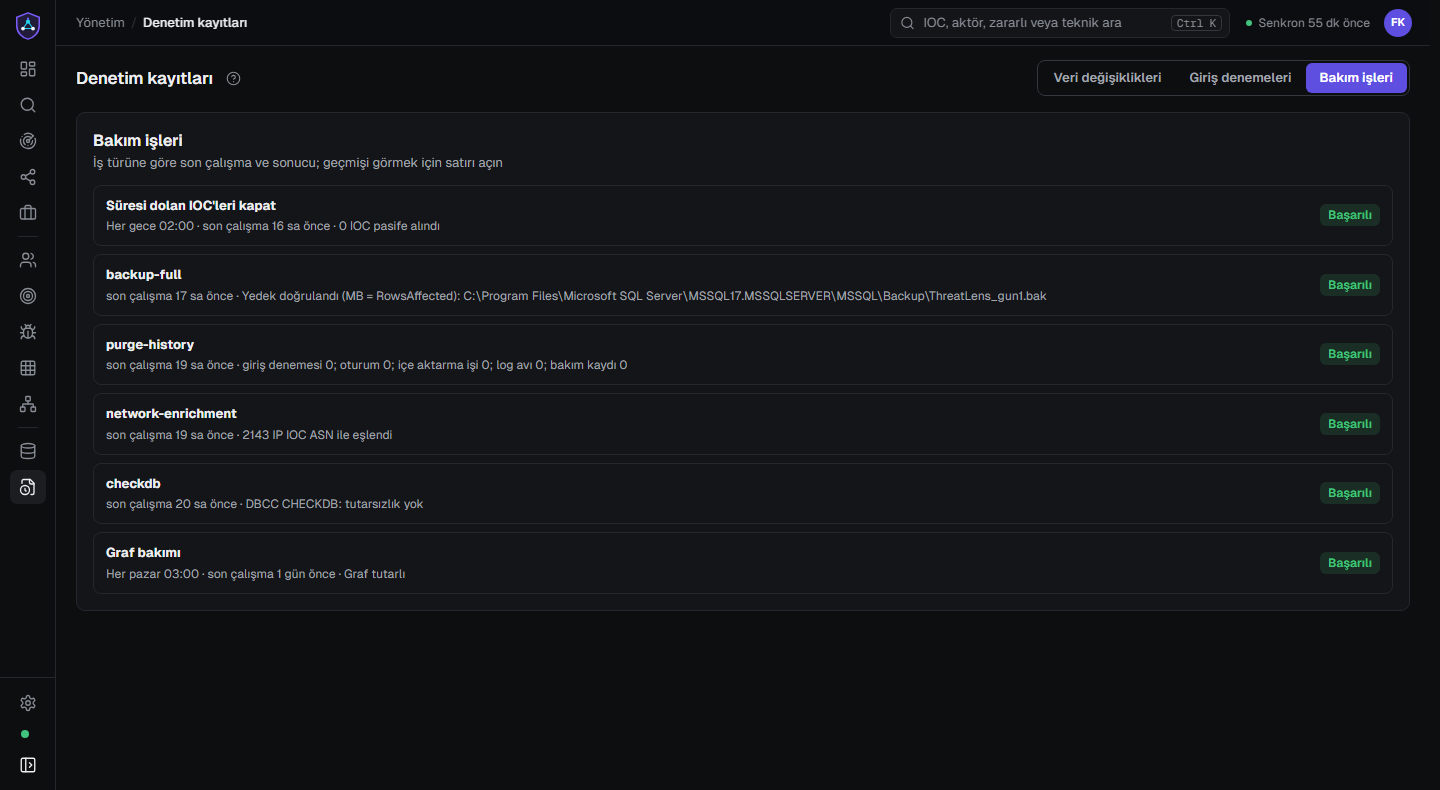
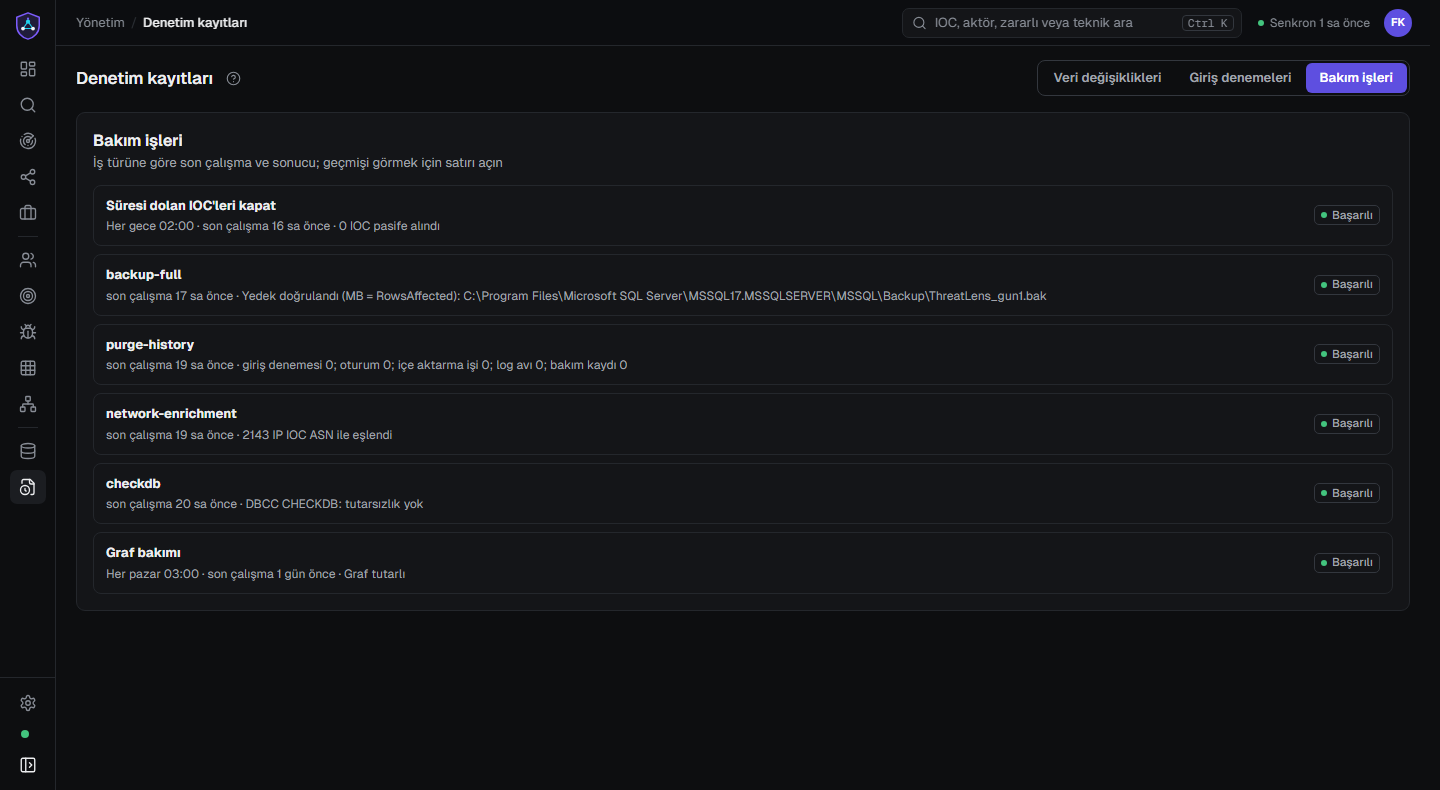
UI Konsol: aşama 4 (2/3) — tablo, rozet, KPI ve önizleme paneli
Tablolar sayfa zemininde (32 px yapışkan başlık, 36 px satır, seçili satırda 2 px vurgu); risk sayı + bant çubuğu, Aile → aktör, önem nokta + metin, çerçeveli etiketler; sayfalayıcı ve KPI yeni stil; IOC önizleme paneli: risk bileşenleri (fn_RiskBreakdown), dikey atıf zinciri, ayrıntılar, teknikler, yapışkan eylemler; ≥1280 bölünmüş, 768–1279 çekmece, <768 alt sayfa; ↑/↓ satır, Enter tam sayfa.

diff --git a/app/static/js/iocs.js b/app/static/js/iocs.js
@@ -6,16 +6,23 @@
   const split = document.getElementById('split'), tbl = document.getElementById('tbl'), form = document.getElementById('filters'), bar = document.getElementById('tblBar');
   let fb = null, sel = null;
 
+  const fam = (r) => {
+    if (!r.MalwareName) return TL.unknown('Zararlı ailesiyle ilişkilendirilmemiş');
+    if (/^Ailesi belirlenmemiş/.test(r.MalwareName)) return '<span class="faint">Ailesi belirlenmemiş</span>';
+    const t = r.ActorName ? `${r.MalwareName} → ${r.ActorName}` : r.MalwareName;
+    return `<span class="fam" title="${esc(t)}"><b>${esc(r.MalwareName)}</b>${r.ActorName ? `<span class="to" aria-hidden="true">→</span><span class="act">${esc(r.ActorName)}</span>` : ''}</span>`;
+  };
   const cols = [
     { id: 'value', label: 'Gösterge', sort: 'value', primary: true, render: (r) => TL.iocCell(r.Value) },
     { id: 'type', label: 'Tip', sort: 'type', render: (r) => typeBadge(r.TypeCode) },
     { id: 'severity', label: 'Önem', sort: 'severity', render: (r) => sev(r.SeverityCode) },
-    { id: 'confidence', label: 'Güven', sort: 'confidence', render: (r) => conf(r.Confidence) },
-    { id: 'malware', label: 'Zararlı ailesi', priority: 2, render: (r) => r.MalwareName ? `<span class="trunc">${esc(r.MalwareName)}</span>` : '<span class="faint">—</span>' },
-    { id: 'source', label: 'Kaynak', sort: 'source', priority: 2, render: (r) => sourceBadge(r.SourceName) },
-    { id: 'firstSeen', label: 'İlk görülme', sort: 'firstSeen', priority: 3, render: (r) => `<span class="muted nowrap" title="${fmtDT(r.FirstSeen)}">${ago(r.FirstSeen)}</span>` },
+    { id: 'risk', label: 'Risk', sort: 'risk', hint: 'Risk skoru (0–100); çubuk risk bandının renginde. Bileşenleri satıra tıklayınca açılan panelde.', render: (r) => TL.risk(r.RiskScore) },
+    { id: 'confidence', label: 'Güven', sort: 'confidence', hidden: true, render: (r) => conf(r.Confidence) },
+    { id: 'malware', label: 'Aile → aktör', priority: 2, hint: 'Zararlı ailesi ve onu kullanan tehdit aktörü; — : bir aileyle ilişkilendirilmemiş', render: fam },
+    { id: 'source', label: 'Kaynak', sort: 'source', priority: 3, render: (r) => sourceBadge(r.SourceName) },
+    { id: 'firstSeen', label: 'İlk görülme', sort: 'firstSeen', hidden: true, render: (r) => `<span class="muted nowrap" title="${fmtDT(r.FirstSeen)}">${ago(r.FirstSeen)}</span>` },
     { id: 'lastSeen', label: 'Son görülme', sort: 'lastSeen', render: (r) => `<span class="nowrap" title="${fmtDT(r.LastSeen)}">${ago(r.LastSeen)}</span>` },
-    { id: 'actions', label: 'İşlemler', cls: 'actions', render: (r) => `<a class="btn sm icon ghost" href="/iocs/${r.IndicatorID}" aria-label="Detay sayfası: ${esc(r.Value)}" title="Detay sayfası"><i data-lucide="external-link"></i></a>
+    { id: 'actions', label: 'İşlemler', cls: 'actions', priority: 2, render: (r) => `<a class="btn sm icon ghost" href="/iocs/${r.IndicatorID}" aria-label="Detay sayfası: ${esc(r.Value)}" title="Detay sayfası"><i data-lucide="external-link"></i></a>
         <a class="btn sm icon ghost" href="${TL.graphUrl('indicator', r.IndicatorID)}" aria-label="İlişki grafında aç: ${esc(r.Value)}" title="İlişki grafında aç"><i data-lucide="share-2"></i></a>` },
   ];
 
@@ -75,30 +82,63 @@
     finally { tbl.removeAttribute('aria-busy'); }
   }
 
-  async function show(id) {
+  const num = (n, d = 1) => Number(n).toLocaleString('tr-TR', { maximumFractionDigits: d });
+  const chainList = (i, attribution) => {
+    const seen = new Set(), rows = attribution.filter((a) => { const k = `${a.ViaType}${a.ViaID}${a.ActorID}`; if (seen.has(k)) return false; seen.add(k); return true; });
+    const step = (color, title, sub, href) => `<li><span class="dot" style="background:var(${color})" aria-hidden="true"></span><span>${href ? `<a href="${href}"><b>${esc(title)}</b></a>` : `<b>${esc(title)}</b>`}<small>${sub}</small></span></li>`;
+    const first = step('--n-ioc', 'Bu gösterge', `${esc(TL.TYPE_LABEL[i.TypeCode] || i.TypeCode)} · ${esc(TL.sourceShort(i.SourceName))}`);
+    if (!rows.length) return `<ol class="pk-chain" aria-label="Atıf zinciri">${first}<li><span class="dot" style="background:var(--line-strong)" aria-hidden="true"></span><span><b class="faint">Ailesi belirlenmemiş</b><small>Bir zararlı yazılım ya da kampanyayla ilişkilendirilmemiş</small></span></li></ol>`;
+    const via = new Map(); rows.forEach((a) => { const k = `${a.ViaType}:${a.ViaID}`; if (!via.has(k)) via.set(k, { ...a, actors: [] }); if (a.ActorID) via.get(k).actors.push(a); });
+    return [...via.values()].slice(0, 3).map((v) => `<ol class="pk-chain" aria-label="Atıf zinciri: ${esc(v.ViaName)}">${first}
+      ${step(v.ViaType === 'malware' ? '--n-malware' : '--n-campaign', v.ViaName, `${v.ViaType === 'malware' ? 'Zararlı yazılım' : 'Kampanya'} · kanıt: ${esc(v.EvidenceSource || 'kaynak belirtilmemiş')}`, TL.entityUrl(v.ViaType, v.ViaID))}
+      ${v.actors.length ? step('--n-actor', v.actors.map((x) => x.ActorName).join(', '), `Tehdit aktörü · ${esc(v.actors[0].ActorEvidenceSource || 'MITRE ATT&CK')}`, TL.entityUrl('actor', v.actors[0].ActorID))
+        : `<li><span class="dot" style="background:var(--line-strong)" aria-hidden="true"></span><span><b class="faint">Aktör bilinmiyor</b><small>Bu aileyi kullanan aktör kaydı yok</small></span></li>`}</ol>`).join('');
+  };
+  const riskBox = (i, r) => {
+    if (!r) return '';
+    const [, band] = TL.riskBand(r.Score), sevW = r.SeverityWeight, k = r.ReliabilityFactor * r.FreshnessFactor * r.StatusFactor, w = (x) => Math.max(0, (x * k)).toFixed(2);
+    return `<section aria-labelledby="pkRisk"><h3 id="pkRisk">Risk puanı</h3>
+      <div class="pk-score"><b>${r.Score}</b><span>/ 100 · ${esc(band)} bant</span></div>
+      <div class="pk-stack" role="img" aria-label="Bileşenler: güven ${num(r.ConfidencePart)}, önem ${num(r.SeverityPart)}, kurumda görülme ${num(r.SightingPart)}">
+        <i style="width:${w(r.ConfidencePart)}%;background:var(--accent)"></i><i style="width:${w(r.SeverityPart)}%;background:color-mix(in srgb, var(--accent) 50%, transparent)"></i><i style="width:${w(r.SightingPart)}%;background:var(--text-3)"></i></div>
+      <div class="pk-legend">
+        <i style="background:var(--accent)"></i><span>Güven ${i.Confidence} × 0,45</span><b>${num(r.ConfidencePart)}</b>
+        <i style="background:color-mix(in srgb, var(--accent) 50%, transparent)"></i><span>Önem ${esc(TL.SEV[i.SeverityCode] || i.SeverityCode)} ${sevW} × 0,35</span><b>${num(r.SeverityPart)}</b>
+        <i style="background:var(--text-3)"></i><span>Kurumda görülme ${fmtN(i.SightingCount || 0)} × 2 (en çok 20)</span><b>${num(r.SightingPart)}</b>
+        <span class="eq">× kaynak ${esc(i.Reliability)} ${num(r.ReliabilityFactor, 2)} · tazelik ${num(r.FreshnessFactor, 2)}${r.StatusFactor < 1 ? ` · durum ${num(r.StatusFactor, 2)}` : ''} = <b>${r.Score}</b><span class="tech"> · fn_RiskBreakdown</span></span>
+      </div></section>`;
+  };
+
+  async function show(id, _tr, opts = {}) {
     st.selected = id; qs.set({ id }); markRow(tbl, id);
-    panel(split, panelHead('IOC detayı') + loading());
+    if (!opts.keepFocus) panel(split, panelHead('IOC detayı') + loading());
     try {
       const [d, rel] = await Promise.all([api(`/api/iocs/${id}`), api(`/api/iocs/${id}/relationships`)]);
-      const i = d.indicator;
-      panel(split, `${panelHead('IOC detayı')}
-        <section><div class="entity-title">${TL.nodeIcon('indicator')}<div style="min-width:0"><h2 class="mono ioc-title">${esc(i.Value)}</h2>
-          <div class="chips" style="margin-top:6px">${typeBadge(i.TypeCode)}${sev(i.SeverityCode)}${status(i.Status)}</div></div></div>
-          ${TL.actions([`<a class="btn sm primary" href="${TL.graphUrl('indicator', i.IndicatorID)}"><i data-lucide="share-2"></i>İlişki grafı</a>`,
-            copyBtn(i.Value).replace('btn sm icon ghost copy', 'btn sm copy').replace('</i>', '</i>Kopyala')],
-            [TL.caseBtn('indicator', i.IndicatorID, i.Value, 'btn')])}</section>
-        <section><dl class="kv">
-          <dt>Güven skoru</dt><dd>${conf(i.Confidence)}</dd><dt>Risk skoru</dt><dd>${i.RiskScore} / 100</dd>
-          <dt>Kaynak</dt><dd>${sourceBadge(i.SourceName)} <span class="faint">(güvenilirlik ${esc(i.Reliability)})</span></dd>
-          <dt>İlk görülme</dt><dd>${fmtDT(i.FirstSeen)}</dd><dt>Son görülme</dt><dd>${fmtDT(i.LastSeen)}</dd>
-          <dt>Görülme</dt><dd>${i.SightingCount ? `${fmtN(i.SightingCount)} kez (kurum içi)` : '<span class="faint">Kurum içinde görülmedi</span>'}</dd><dt>TLP</dt><dd>${esc(i.TLPCode)}</dd>
+      if (String(st.selected) !== String(id)) return;              // bu arada başka satır seçildi
+      const i = d.indicator, tech = rel.malwareTechniques, techSeen = new Map();
+      tech.forEach((t) => { if (!techSeen.has(t.ExternalID)) techSeen.set(t.ExternalID, t); });
+      const techs = [...techSeen.values()];
+      panel(split, `<div class="panel-head"><span class="pk-kind"><i data-lucide="hash" aria-hidden="true"></i>IOC · ${esc(TL.TYPE_LABEL[i.TypeCode] || i.TypeCode)}</span>
+          <button type="button" class="btn icon ghost" data-close aria-label="Paneli kapat" title="Kapat (Esc)"><i data-lucide="x"></i></button></div>
+        <section aria-label="Gösterge"><h2 class="pk-val">${esc(i.Value)}</h2>
+          <div class="pk-tags">${sev(i.SeverityCode)}<span class="badge" title="Kaynak ve güvenilirlik derecesi">${esc(TL.sourceShort(i.SourceName))} · ${esc(i.Reliability)}</span><span class="badge">Güven ${i.Confidence}</span>${i.Status !== 'active' ? status(i.Status) : ''}</div></section>
+        ${riskBox(i, d.risk)}
+        <section aria-labelledby="pkChain"><h3 id="pkChain">Atıf zinciri</h3>${chainList(i, rel.attribution)}</section>
+        <section class="pk-more" aria-labelledby="pkKv"><h3 id="pkKv">Ayrıntılar</h3><dl class="kv">
+          <dt>Son görülme</dt><dd title="${fmtDT(i.LastSeen)}">${ago(i.LastSeen)}</dd><dt>İlk görülme</dt><dd>${fmtDT(i.FirstSeen)}</dd>
+          ${i.ExpiresAt ? `<dt>Geçerlilik sonu</dt><dd>${fmtDT(i.ExpiresAt)}</dd>` : ''}
+          <dt>Kurumda görülme</dt><dd>${i.SightingCount ? `${fmtN(i.SightingCount)} kez` : '<span class="faint">Görülmedi</span>'}</dd>
+          <dt>İlişkili kayıt</dt><dd>${fmtN(rel.attribution.length)} atıf · ${fmtN(d.related.length)} benzer gösterge</dd>
+          <dt>Durum</dt><dd>${status(i.Status)}</dd><dt>TLP</dt><dd>${esc(i.TLPCode)}</dd>
           ${i.Tags.length ? `<dt>Etiketler</dt><dd><div class="chips">${i.Tags.map((t) => `<a class="chip" href="/iocs?tag=${encodeURIComponent(t)}">${esc(t)}</a>`).join('')}</div></dd>` : ''}
         </dl></section>
-        <section><h3><i data-lucide="git-branch"></i>Atıf zinciri</h3>${TL.chains(i, rel.attribution)}</section>
-        <section><h3><i data-lucide="grid-3x3"></i>İlişkili ATT&amp;CK teknikleri</h3>
-          ${rel.malwareTechniques.length ? `<div class="chips">${rel.malwareTechniques.slice(0, 14).map((t) => `<span class="chip" title="${esc(t.ExternalID)} ${esc(t.Technique)} (${esc(t.Malware)})" aria-label="${esc(t.ExternalID)} ${esc(t.Technique)}"><span class="mono">${esc(t.ExternalID)}</span></span>`).join('')}</div>
-            <p class="faint" style="font-size:12px">${rel.malwareTechniques.length} teknik<span class="tech"> · IOC → zararlı → teknik MATCH deseni</span></p>` : '<p class="faint" style="font-size:13px">Teknik ilişkisi yok.</p>'}</section>
-        <div class="panel-foot"><a class="btn" href="/iocs/${i.IndicatorID}"><i data-lucide="maximize-2"></i>Tam sayfada aç</a></div>`);
+        <section class="pk-more" aria-labelledby="pkTech"><h3 id="pkTech">Teknikler${techs.length ? ` (${techs.length})` : ''}</h3>
+          ${techs.length ? `<div class="pk-tech">${techs.slice(0, 5).map((t) => `<a class="chip" href="/attack?id=${t.TechniqueID || ''}" title="${esc(t.ExternalID)} ${esc(t.Technique)} (${esc(t.Malware)} üzerinden)"><span class="mono">${esc(t.ExternalID)}</span>${esc(TL.midTruncate(t.Technique, 16, 0))}</a>`).join('')}${techs.length > 5 ? `<a class="chip" href="/iocs/${i.IndicatorID}">+${techs.length - 5}</a>` : ''}</div>`
+            : '<p class="faint" style="font-size:13px">Teknik ilişkisi yok.</p>'}</section>
+        <div class="panel-foot"><a class="btn" href="${TL.graphUrl('indicator', i.IndicatorID)}"><i data-lucide="share-2"></i>Grafta aç</a>
+          ${can('analyst') ? `<button type="button" class="btn" data-add-case><i data-lucide="briefcase"></i>Vakaya ekle</button>` : ''}
+          <a class="btn icon" href="/iocs/${i.IndicatorID}" aria-label="Kayda git: tam sayfa" title="Kayda git"><i data-lucide="arrow-up-right"></i></a></div>`);
+      split.querySelector('[data-add-case]')?.addEventListener('click', () => TL.addToCase('indicator', [i.IndicatorID], i.Value));
     } catch (e) { const p = panel(split, panelHead('IOC detayı') + '<div class="panel-err"></div>'); TL.failed(p.querySelector('.panel-err'), e, () => show(id)); }
   }
 
@@ -111,7 +151,7 @@
     Object.entries(filters()).forEach(([k, v]) => { if (v !== undefined && v !== null && v !== '') q.set(k, v); });
     location.href = `/api/iocs/export?${q}`;
   });
-  bindTable(tbl, { onRow: show, onSort: (s) => { st.dir = st.sort === s && st.dir === 'desc' ? 'asc' : 'desc'; st.sort = s; st.page = 1; TL.onSortSync?.(); load(); } });
+  bindTable(tbl, { onRow: show, href: (id) => `/iocs/${id}`, onSort: (s) => { st.dir = st.sort === s && st.dir === 'desc' ? 'asc' : 'desc'; st.sort = s; st.page = 1; TL.onSortSync?.(); load(); } });
 
   // ---------- toplu kontrol ----------
   document.getElementById('lookupBtn').addEventListener('click', () => {

diff --git a/app/static/css/app.css b/app/static/css/app.css
@@ -1196,3 +1196,138 @@ textarea.drop-text.over { border-color: var(--purple); background: var(--purple-
 
 /* Metin içindeki bağlantı yalnızca renkle ayrılmasın (WCAG 1.4.1) */
 nav[aria-label="Sayfa yolu"] a { text-decoration: underline; text-underline-offset: 2px; }
+
+/* ================= Konsol aşama 4: tablo, rozet, sayfalayıcı, KPI ve detay paneli =================
+   Önceki kuralların üzerine yazar (aynı özgüllük, sonra gelir). */
+
+/* ---------- tablo: kart içinde değil, sayfa zemininde; başlık 32 px yapışkan, satır 36 px, yalnızca alt çizgi ---------- */
+.split > .card.flush { background: transparent; border: 0; border-radius: 0; }
+.split > .card.flush > .table-bar { padding-left: 0; padding-right: 0; }
+.split > .card.flush .table-wrap { border-top: 1px solid var(--line); }
+table.data { font-size: 13px; }
+.data th { height: 32px; font-size: 12px; font-weight: 500; color: var(--text-3); background: var(--bg); }
+.card .data th { background: var(--card); }
+.data th[aria-sort] { color: var(--text-2); }
+.data th[aria-sort="ascending"] button::after, .data th[aria-sort="descending"] button::after { color: var(--text-2); }
+.data th button:focus-visible, .data tbody tr:focus-visible { outline-color: var(--accent); }
+/* yapışkan başlık: yatay kaydırma gerekmiyorsa tablo kendi kaydırma alanı olmaz, başlık sayfayla birlikte üstte kalır */
+.scroll-host:not(.scroll-x) > .table-scroll { overflow: visible; }
+.data thead th { position: sticky; top: var(--topbar-h); z-index: 3; }
+.data tbody tr:hover { background: var(--row-hover); }
+.data tbody tr[aria-selected="true"] { background: var(--row-selected); }
+.data tbody tr[aria-selected="true"] > td:first-child { box-shadow: inset 2px 0 0 var(--accent); }
+.data td a:not(.btn):hover { color: var(--link); }
+.data .sel input, .check input[type=checkbox] { accent-color: var(--accent-strong); }
+.cell-ioc .value, .data .mono { font-size: 12.5px; }
+/* detay paneli açıkken öncelik-3 sütunları gizlenir (ör. IOC'de Kaynak) */
+.split:not(.no-panel) .data [data-priority="3"]:not([data-force]) { display: none; }
+
+/* ---------- hücre biçimleri ---------- */
+/* risk: sayı ve 44 px ince çubuk; çubuk bant rengi (Kritik, Yüksek, Orta, Düşük) */
+.risk { display: inline-flex; align-items: center; gap: 8px; font-variant-numeric: tabular-nums; }
+.risk > b { min-width: 2.4ch; text-align: right; font-weight: 500; }
+.risk .bar { position: relative; width: 44px; height: 3px; border-radius: 2px; background: var(--line); overflow: hidden; }
+.risk .bar > i { position: absolute; inset: 0 auto 0 0; border-radius: inherit; }
+.band-critical { background: var(--critical); } .band-high { background: var(--high); } .band-medium { background: var(--medium); } .band-low { background: var(--low); }
+/* aile → aktör */
+.fam { display: inline-flex; align-items: center; gap: 6px; min-width: 0; max-width: 100%; }
+.fam b { font-weight: 600; overflow: hidden; text-overflow: ellipsis; }
+.fam .to { color: var(--text-3); }
+.fam .act { color: var(--text-2); overflow: hidden; text-overflow: ellipsis; }
+
+/* ---------- rozet ve etiket: tek bileşen; 11,5 px, 1 px --line-strong çerçeve, 5 px köşe. Önem için nokta ve metin ---------- */
+.badge { height: 20px; padding: 0 6px; gap: 5px; border: 1px solid var(--line-strong); border-radius: 5px; background: transparent; color: var(--text-2);
+  font-size: 11.5px; font-weight: 500; }
+.b-purple, .b-cyan, .b-muted, .b-demo { background: transparent; color: var(--text-2); }
+.badge .dot { width: 7px; height: 7px; border-radius: 2px; }
+.badge.sev-critical, .badge.sev-high, .badge.sev-medium, .badge.sev-low, .badge.sev-info { height: auto; padding: 0; border: 0; background: none; color: var(--text); font-size: 13px; }
+.badge.sev-critical .dot { background: var(--critical); } .badge.sev-high .dot { background: var(--high); }
+.badge.sev-medium .dot { background: var(--medium); } .badge.sev-low .dot { background: var(--low); } .badge.sev-info .dot { background: var(--text-3); }
+/* iş ve kayıt durumu: çerçeveli etiket, anlam ikon/nokta renginde (yalnızca renkle değil, metinle de) */
+.b-ok, .b-warn, .b-bad { background: transparent; color: var(--text-2); }
+.b-ok svg { color: var(--low); } .b-warn svg { color: var(--medium); } .b-bad svg { color: var(--critical); }
+.b-ok::before, .b-warn::before, .b-bad::before { content: ""; width: 6px; height: 6px; border-radius: 50%; flex-shrink: 0; }
+.b-ok:has(svg)::before, .b-warn:has(svg)::before, .b-bad:has(svg)::before { display: none; }
+.b-ok::before { background: var(--low); } .b-warn::before { background: var(--medium); } .b-bad::before { background: var(--critical); }
+.chip { height: 24px; padding: 0 8px; border-radius: 5px; background: transparent; border-color: var(--line-strong); font-size: 12px; }
+.chip.on, .chip[aria-pressed="true"] { background: var(--accent-soft); border-color: transparent; color: var(--accent-text); }
+
+/* ---------- sayfalayıcı: 40 px alt satır ---------- */
+.pager { min-height: 40px; padding: 6px 0; font-size: 12.5px; color: var(--text-3); font-variant-numeric: tabular-nums; }
+.card .pager { padding: 6px 16px; }
+.pager nav { gap: 2px; }
+.pager button { min-width: 28px; height: 28px; border-color: transparent; background: transparent; color: var(--text-2); border-radius: 6px; }
+.pager button:hover:not([disabled]) { background: var(--row-hover); color: var(--text); }
+.pager button[aria-current="page"] { background: var(--elev); border-color: var(--line-strong); color: var(--text); }
+
+/* ---------- KPI kartı: sayı (22 px), etiket, tek satır bağlam; ikon 16 px ve soluk ---------- */
+.kpi { position: relative; grid-template-columns: minmax(0, 1fr); gap: 0; align-items: start; padding: 14px 16px; }
+.kpi .ic, .kpi .ic.c, .kpi .ic.r, .kpi .ic.a { position: absolute; top: 14px; right: 14px; width: auto; height: auto; border-radius: 0; background: none; color: var(--text-3); }
+.kpi .ic svg { width: 16px; height: 16px; }
+.kpi .val { font-size: 22px; font-weight: 600; letter-spacing: -.01em; line-height: 1.25; }
+.kpi .lbl { margin-top: 2px; color: var(--text-2); font-size: 13px; padding-right: 22px; }
+.kpi .sub { margin-top: 2px; color: var(--text-3); font-size: 12px; }
+@media (max-width: 560px) { .kpi .sub { display: block; -webkit-line-clamp: unset; overflow: visible; } }
+.kpi.mix .lbl { margin-top: 0; }
+
+/* ---------- boş durum: kendi kartının içinde, ikon + bir cümle + eylem ---------- */
+.empty { padding: 28px 16px; gap: 6px; }
+.empty svg { width: 22px; height: 22px; }
+
+/* ---------- detay paneli (önizleme) ----------
+   ≥1280: 384 px sağ bölünmüş görünüm (tablo daralır); 768–1279: tablonun üzerine binen çekmece; <768: alttan açılan sayfa. */
+:root { --panel-w: 384px; }
+@media (min-width: 1600px) { :root { --panel-w: 400px; } }
+.split:not(.no-panel) { gap: 0 16px; }
+.panel { background: var(--card); padding: 0; border: 0; border-left: 1px solid var(--line); border-radius: 0; }
+@media (min-width: 1280px) {
+  .split > .panel { position: sticky; top: var(--topbar-h); height: calc(100vh - var(--topbar-h)); max-height: none; margin: -14px -20px -24px 0;
+    animation: tl-peek var(--t-panel) ease-out; }
+}
+@keyframes tl-peek { from { opacity: 0; transform: translateX(8px); } }
+.panel .panel-head { position: sticky; top: 0; z-index: 2; margin: 0; padding: 12px 16px 10px; background: var(--card); }
+.panel .panel-head h2 { font-size: 13px; font-weight: 500; color: var(--text-2); }
+.panel section { padding: 14px 18px; border-top: 1px solid var(--line); }
+.panel section:first-of-type { padding-top: 4px; }
+.panel h3 { font-size: 12px; font-weight: 500; color: var(--text-3); }
+.panel h3 svg { width: 14px; height: 14px; }
+.panel-foot { position: sticky; bottom: 0; z-index: 2; display: flex; gap: 6px; padding: 10px 16px; background: var(--card); border-top: 1px solid var(--line); }
+.panel-foot .btn { width: auto; flex: 1; }
+.panel-foot .btn.icon { flex: 0 0 auto; }
+@media (max-width: 1279px) {
+  .panel { top: var(--topbar-h); width: min(var(--panel-w), 100vw); border-left: 1px solid var(--line-strong); box-shadow: var(--shadow-pop); animation: tl-peek var(--t-panel) ease-out; }
+}
+@media (max-width: 1023px) and (min-width: 768px) {
+  .panel { position: fixed; top: var(--topbar-h); right: 0; bottom: 0; max-height: none; z-index: 28; padding: 0; }
+  html.panel-full { overflow: auto; }
+}
+@media (max-width: 767px) {
+  .panel { top: auto; left: 0; right: 0; bottom: 0; width: 100vw; height: auto; max-height: 85vh; border-left: 0; border-top: 1px solid var(--line-strong);
+    border-radius: 14px 14px 0 0; padding: 0; box-shadow: 0 -20px 50px var(--shadow); animation: tl-sheet var(--t-panel) ease-out; }
+  .panel::before { content: ""; display: block; width: 36px; height: 4px; margin: 8px auto 0; border-radius: 2px; background: var(--line-strong); }
+  .panel .pk-more { display: none; }
+}
+@keyframes tl-sheet { from { transform: translateY(24px); opacity: 0; } }
+
+/* IOC önizleme bölümleri */
+.pk-kind { display: inline-flex; align-items: center; gap: 6px; color: var(--text-2); font-size: 12px; }
+.pk-kind svg { width: 14px; height: 14px; color: var(--n-ioc); }
+.pk-val { font: 500 13px/1.45 var(--mono); color: var(--text); overflow-wrap: anywhere; word-break: break-all; }
+.pk-tags { display: flex; flex-wrap: wrap; gap: 6px; }
+.pk-score { display: flex; align-items: baseline; gap: 8px; }
+.pk-score b { font-size: 22px; font-weight: 600; font-variant-numeric: tabular-nums; }
+.pk-score span { color: var(--text-2); font-size: 13px; }
+.pk-stack { display: flex; height: 6px; gap: 2px; border-radius: 3px; overflow: hidden; background: var(--line); }
+.pk-stack i { display: block; height: 100%; }
+.pk-legend { display: grid; grid-template-columns: 8px minmax(0, 1fr) auto; gap: 5px 8px; align-items: center; font-size: 12px; color: var(--text-2); }
+.pk-legend i { width: 8px; height: 8px; border-radius: 2px; }
+.pk-legend b { font-weight: 500; color: var(--text); font-variant-numeric: tabular-nums; text-align: right; }
+.pk-legend .eq { grid-column: 2 / -1; padding-top: 4px; border-top: 1px dashed var(--line); color: var(--text-3); }
+.pk-chain { list-style: none; margin: 0; padding: 0; display: grid; gap: 0; }
+.pk-chain li { position: relative; display: grid; grid-template-columns: 10px minmax(0, 1fr); gap: 10px; padding: 0 0 12px; }
+.pk-chain li:not(:last-child)::after { content: ""; position: absolute; left: 4px; top: 14px; bottom: 0; width: 2px; background: var(--line); }
+.pk-chain .dot { width: 10px; height: 10px; margin-top: 4px; border-radius: 50%; }
+.pk-chain b { display: block; font-weight: 500; overflow-wrap: anywhere; }
+.pk-chain small { display: block; color: var(--text-3); font-size: 12px; }
+.pk-tech { display: flex; flex-wrap: wrap; gap: 6px; }
+.pk-tech .chip .mono { color: var(--text-2); }

diff --git a/app/static/js/core.js b/app/static/js/core.js
@@ -43,7 +43,13 @@
   const STATUS = { active: ['Aktif', 'b-ok'], expired: ['Süresi doldu', 'b-muted'], revoked: ['İptal edildi', 'b-muted'], false_positive: ['Yanlış pozitif', 'b-warn'] };
 
   const sev = (code) => code ? `<span class="badge sev-${esc(code)}"><span class="dot"></span>${esc(SEV[code] || code)}</span>` : '<span class="faint">—</span>';
-  const typeBadge = (code) => `<span class="badge b-purple">${esc(TYPE_LABEL[code] || code)}</span>`;
+  const typeBadge = (code) => `<span class="badge">${esc(TYPE_LABEL[code] || code)}</span>`;
+  /** Risk bandı: Ayarlar > Risk eşikleri (RiskBand tablosu; meta yüklenince güncellenir) */
+  let BANDS = [['critical', 'Kritik', 85], ['high', 'Yüksek', 70], ['medium', 'Orta', 40], ['low', 'Düşük', 0]];
+  const riskBand = (n) => BANDS.find((b) => n >= b[2]) || BANDS[BANDS.length - 1];
+  /** Risk hücresi: sayı ve 44 px çubuk; çubuk bant renginde, bant adı ipucunda */
+  const risk = (n) => { if (n == null) return '<span class="faint">—</span>'; const [c, l] = riskBand(n);
+    return `<span class="risk" title="Risk ${n} / 100 · ${l} bant"><b>${n}</b><span class="bar" aria-hidden="true"><i class="band-${c}" style="width:${n}%"></i></span></span>`; };
   const status = (s) => { const [l, c] = STATUS[s] || [s, 'b-muted']; return `<span class="badge ${c}">${esc(l)}</span>`; };
   const job = (s) => { const [l, c, i] = JOB[s] || [s, 'b-muted', 'circle']; return `<span class="badge ${c}"><i data-lucide="${i}" style="width:13px;height:13px"></i>${esc(l)}</span>`; };
   const conf = (n) => n == null ? '<span class="faint">—</span>' :
@@ -115,7 +121,10 @@
   }
 
   let metaCache;
-  const meta = async () => (metaCache ||= await api('/api/meta'));   // sözlük tabloları (bir kez alınır)
+  const meta = async () => {                                         // sözlük tabloları (bir kez alınır)
+    if (!metaCache) { metaCache = await api('/api/meta'); TL.setBands?.(metaCache.riskBands); }
+    return metaCache;
+  };
 
   // ---------- yerel tercihler (yalnızca bu tarayıcı) ----------
   const pref = {
@@ -199,13 +208,13 @@
 
   // ---------- tablo ----------
   const colId = (c, i) => c.id || c.sort || c.key || `c${i}`;
-  /** Tablo: columns = [{key, label, hint, render(row), num, sort, primary, cls, priority 1|2|3, id, hideIfAllZero(row)}]
+  /** Tablo: columns = [{key, label, hint, hidden (varsayılan gizli), render(row), num, sort, primary, cls, priority 1|2|3, id, hideIfAllZero(row)}]
       opts: rowId, selected, sort, dir, caption, cards, key (sütun tercihlerinin anahtarı), select {label(row)} */
   function table(columns, rows, { rowId, selected, sort, dir, caption, cards = true, key, select, selectedIds } = {}) {
     if (!rows.length) return '';
     const prefs = key ? pref.get(`tl-cols:${key}`, {}) : {};
     const cols = columns.map((c, i) => ({ ...c, _id: colId(c, i), _prio: c.primary ? 1 : (c.priority || 1) }))
-      .filter((c) => c.primary || prefs[c._id] !== 0)
+      .filter((c) => c.primary || (c.hidden ? prefs[c._id] === 1 : prefs[c._id] !== 0))
       .filter((c) => !c.hideIfAllZero || prefs[c._id] === 1 || rows.some((r) => c.hideIfAllZero(r)));
     const attrs = (c) => `data-col="${esc(c._id)}" data-priority="${c._prio}"${prefs[c._id] === 1 ? ' data-force' : ''}`;
     const th = (select ? `<th scope="col" class="sel"><input type="checkbox" data-select-all aria-label="Bu sayfadaki tüm satırları seç"></th>` : '') + cols.map((c) => {
@@ -224,15 +233,24 @@
   }
 
   /** Tablo olaylarını bağlar: satır tıklama/Enter, sıralama başlıkları, kopyalama */
-  function bindTable(el, { onRow, onSort } = {}) {
+  function bindTable(el, { onRow, onSort, href } = {}) {
     el.addEventListener('click', (e) => {
       const s = e.target.closest('[data-sort]'); if (s && onSort) { onSort(s.dataset.sort); return; }
       if (e.target.closest('a, button, input, label, summary')) return;
       const tr = e.target.closest('tr[data-id]'); if (tr && onRow) onRow(tr.dataset.id, tr);
     });
     el.addEventListener('keydown', (e) => {
-      if (e.key !== 'Enter' || e.target.closest('a, button, input')) return;
-      const tr = e.target.closest('tr[data-id]'); if (tr && onRow) onRow(tr.dataset.id, tr);
+      const tr = e.target.closest('tr[data-id]'); if (!tr || e.target !== tr) return;
+      if (e.key === 'ArrowDown' || e.key === 'ArrowUp') {
+        const next = e.key === 'ArrowDown' ? tr.nextElementSibling : tr.previousElementSibling;
+        if (!next || !next.matches('tr[data-id]')) return;
+        e.preventDefault(); next.focus();
+        // detay paneli açıksa satırla birlikte değişir
+        if (onRow && el.closest('.split') && !el.closest('.split').classList.contains('no-panel')) onRow(next.dataset.id, next, { keepFocus: true });
+      } else if (e.key === 'Enter') {
+        e.preventDefault();
+        if (href) location.href = href(tr.dataset.id); else if (onRow) onRow(tr.dataset.id, tr);
+      } else if (e.key === ' ') { e.preventDefault(); if (onRow) onRow(tr.dataset.id, tr); }
     });
   }
   const markRow = (el, id) => el.querySelectorAll('tr[data-id]').forEach((tr) => tr.setAttribute('aria-selected', String(tr.dataset.id === String(id))));
@@ -356,7 +374,7 @@
     let prev = 0, btns = '';
     [...nums].sort((a, b) => a - b).forEach((n) => { if (n - prev > 1) btns += '<span class="faint" aria-hidden="true" style="padding:6px 4px">…</span>';
       btns += `<button type="button" data-page="${n}" ${n === page ? 'aria-current="page"' : ''} aria-label="Sayfa ${n}">${fmtN(n)}</button>`; prev = n; });
-    el.innerHTML = `<span>${fmtN(from)}–${fmtN(to)} / ${fmtN(total)} ${esc(unit)}</span>
+    el.innerHTML = `<span>${fmtN(from)}–${fmtN(to)} / ${fmtN(total)} ${esc(unit)}${pages > 1 ? ` · Sayfa başına ${size}` : ''}</span>
       <nav aria-label="Sayfalama"><button type="button" data-page="${page - 1}" ${page <= 1 ? 'disabled' : ''} aria-label="Önceki sayfa">‹</button>${btns}
       <button type="button" data-page="${page + 1}" ${page >= pages ? 'disabled' : ''} aria-label="Sonraki sayfa">›</button></nav>`;
     el.onclick = (e) => { const b = e.target.closest('button[data-page]'); if (b && !b.disabled) onPage(+b.dataset.page); };
@@ -727,10 +745,10 @@
     p.querySelector('[data-close]')?.addEventListener('click', () => closePanel(splitEl));
     document.documentElement.classList.toggle('panel-full', full);
     if (full) p.scrollTop = 0;
-    if (OVERLAY.matches && !p.contains(document.activeElement)) p.focus?.({ preventScroll: true });
+    if (OVERLAY.matches && !p.contains(document.activeElement) && !document.activeElement?.matches?.('tr[data-id]')) p.focus?.({ preventScroll: true });
     return p;
   }
-  const FULL = window.matchMedia('(max-width: 1023px)');
+  const FULL = window.matchMedia('(max-width: 767px)');
   const doClose = (splitEl) => { panel(splitEl, null); TL.onPanelClose && TL.onPanelClose(); };
   const closePanel = (splitEl) => { if (history.state && history.state.tlPanel) history.back(); else doClose(splitEl); };
   window.addEventListener('popstate', (e) => {
@@ -1112,7 +1130,7 @@
     Chart.defaults.animation.duration = window.matchMedia('(prefers-reduced-motion: reduce)').matches ? 0 : 500;
   }
 
-  Object.assign(TL, { facet, facetOptions, dateRange, headCount, esc, fmtDT, fmtD, fmtN, fmtSize, ago, pct, midTruncate, clipList, unknown, num, SEV, NODE, TYPE_LABEL, sev, typeBadge, status, job, conf,
+  Object.assign(TL, { risk, riskBand, setBands: (rows) => { if (rows && rows.length) BANDS = rows.map((r) => [r.Code, r.Name, r.MinScore]).sort((a, b) => b[2] - a[2]); }, facet, facetOptions, dateRange, headCount, esc, fmtDT, fmtD, fmtN, fmtSize, ago, pct, midTruncate, clipList, unknown, num, SEV, NODE, TYPE_LABEL, sev, typeBadge, status, job, conf,
     sourceBadge, sourceShort, maintenanceRuns, copyBtn, iocCell, nodeIcon, techChip, entityUrl, graphUrl, refang, guessType, countTypes, api, icons, enhance, toast, loading, empty,
     failed, debounce, can, qs, pref, clampText, actions, table, bindTable, markRow, pageSize, tableBar, selection, pager, filterBar, panel, closePanel,
     panelHead, list, dialog, dropzone, dropText, formData, chartDefaults, meta, overflowActions, NARROW, PHONE, cssVar });

diff --git a/app/templates/iocs.html b/app/templates/iocs.html
@@ -25,7 +25,7 @@
       <input type="hidden" name="severity" id="severity" data-facet="Önem" data-multi data-options="[[&quot;critical&quot;, &quot;Kritik&quot;], [&quot;high&quot;, &quot;Yüksek&quot;], [&quot;medium&quot;, &quot;Orta&quot;], [&quot;low&quot;, &quot;Düşük&quot;], [&quot;info&quot;, &quot;Bilgi&quot;]]" data-chip="off">
       <input type="hidden" name="source" id="source" data-facet="Kaynak" data-multi data-chip="off">
       <input type="hidden" name="status" id="status" data-facet="Durum" data-multi data-options="[[&quot;active&quot;, &quot;Aktif&quot;], [&quot;expired&quot;, &quot;Süresi doldu&quot;], [&quot;revoked&quot;, &quot;İptal edildi&quot;], [&quot;false_positive&quot;, &quot;Yanlış pozitif&quot;]]" data-chip="off">
-      <input type="hidden" name="dateFrom" id="dateFrom" data-label="Son görülme ≥"><input type="hidden" name="dateTo" id="dateTo" data-label="Son görülme ≤"><input type="hidden" name="hours" id="hours" data-label="Son görülme (saat)">
+      <input type="hidden" name="dateFrom" id="dateFrom"><input type="hidden" name="dateTo" id="dateTo"><input type="hidden" name="hours" id="hours">
       <details class="more-filters">
         <summary class="btn"><i data-lucide="sliders-horizontal"></i>Skor <span class="count" hidden></span></summary>
         <div class="menu-pop more-pop">

diff --git a/app/templates/audit.html b/app/templates/audit.html
@@ -24,7 +24,7 @@
         <input type="hidden" name="table" id="table" data-facet="Tablo" data-chip="off">
         <input type="hidden" name="action" id="action" data-facet="İşlem" data-options="[[&quot;I&quot;, &quot;Ekleme&quot;], [&quot;U&quot;, &quot;Güncelleme&quot;], [&quot;D&quot;, &quot;Silme&quot;]]" data-chip="off">
         <input type="hidden" name="user" id="user" data-facet="Kullanıcı" data-chip="off">
-        <input type="hidden" name="dateFrom" id="dateFrom" data-label="Başlangıç"><input type="hidden" name="dateTo" id="dateTo" data-label="Bitiş">
+        <input type="hidden" name="dateFrom" id="dateFrom"><input type="hidden" name="dateTo" id="dateTo">
         <label class="check tb-check" title="Testlerin canlı veritabanına yazdığı eski kayıtlar silinemez; yalnızca görünümden çıkarılır"><input type="checkbox" id="hideAutomation" name="hideAutomation" value="true" checked data-default><span id="hideAutoLabel">Otomasyon kayıtlarını gizle</span></label>
       </div>
       <button class="btn ghost tb-clear" type="reset" hidden>Sıfırla<i data-lucide="x"></i></button>

diff --git a/app/api/iocs.py b/app/api/iocs.py
@@ -373,7 +373,7 @@ def ioc_relationships(indicator_id: int, db: Db = Depends(get_db)):
     malware_techniques = db.query(
         """
         -- Gösterge -> zararlı -> teknik: iki kenarlı MATCH deseni
-        SELECT DISTINCT TOP (40) m.Name AS Malware, t.ExternalID, t.Name AS Technique
+        SELECT DISTINCT TOP (40) m.Name AS Malware, t.TechniqueID, t.ExternalID, t.Name AS Technique
         FROM dbo.IndicatorNode AS i_n, dbo.IndicatesMalware AS e1, dbo.MalwareNode AS m_n,
              dbo.MalwareUsesTechnique AS e2, dbo.TechniqueNode AS t_n,
              dbo.Malware AS m, dbo.Technique AS t
